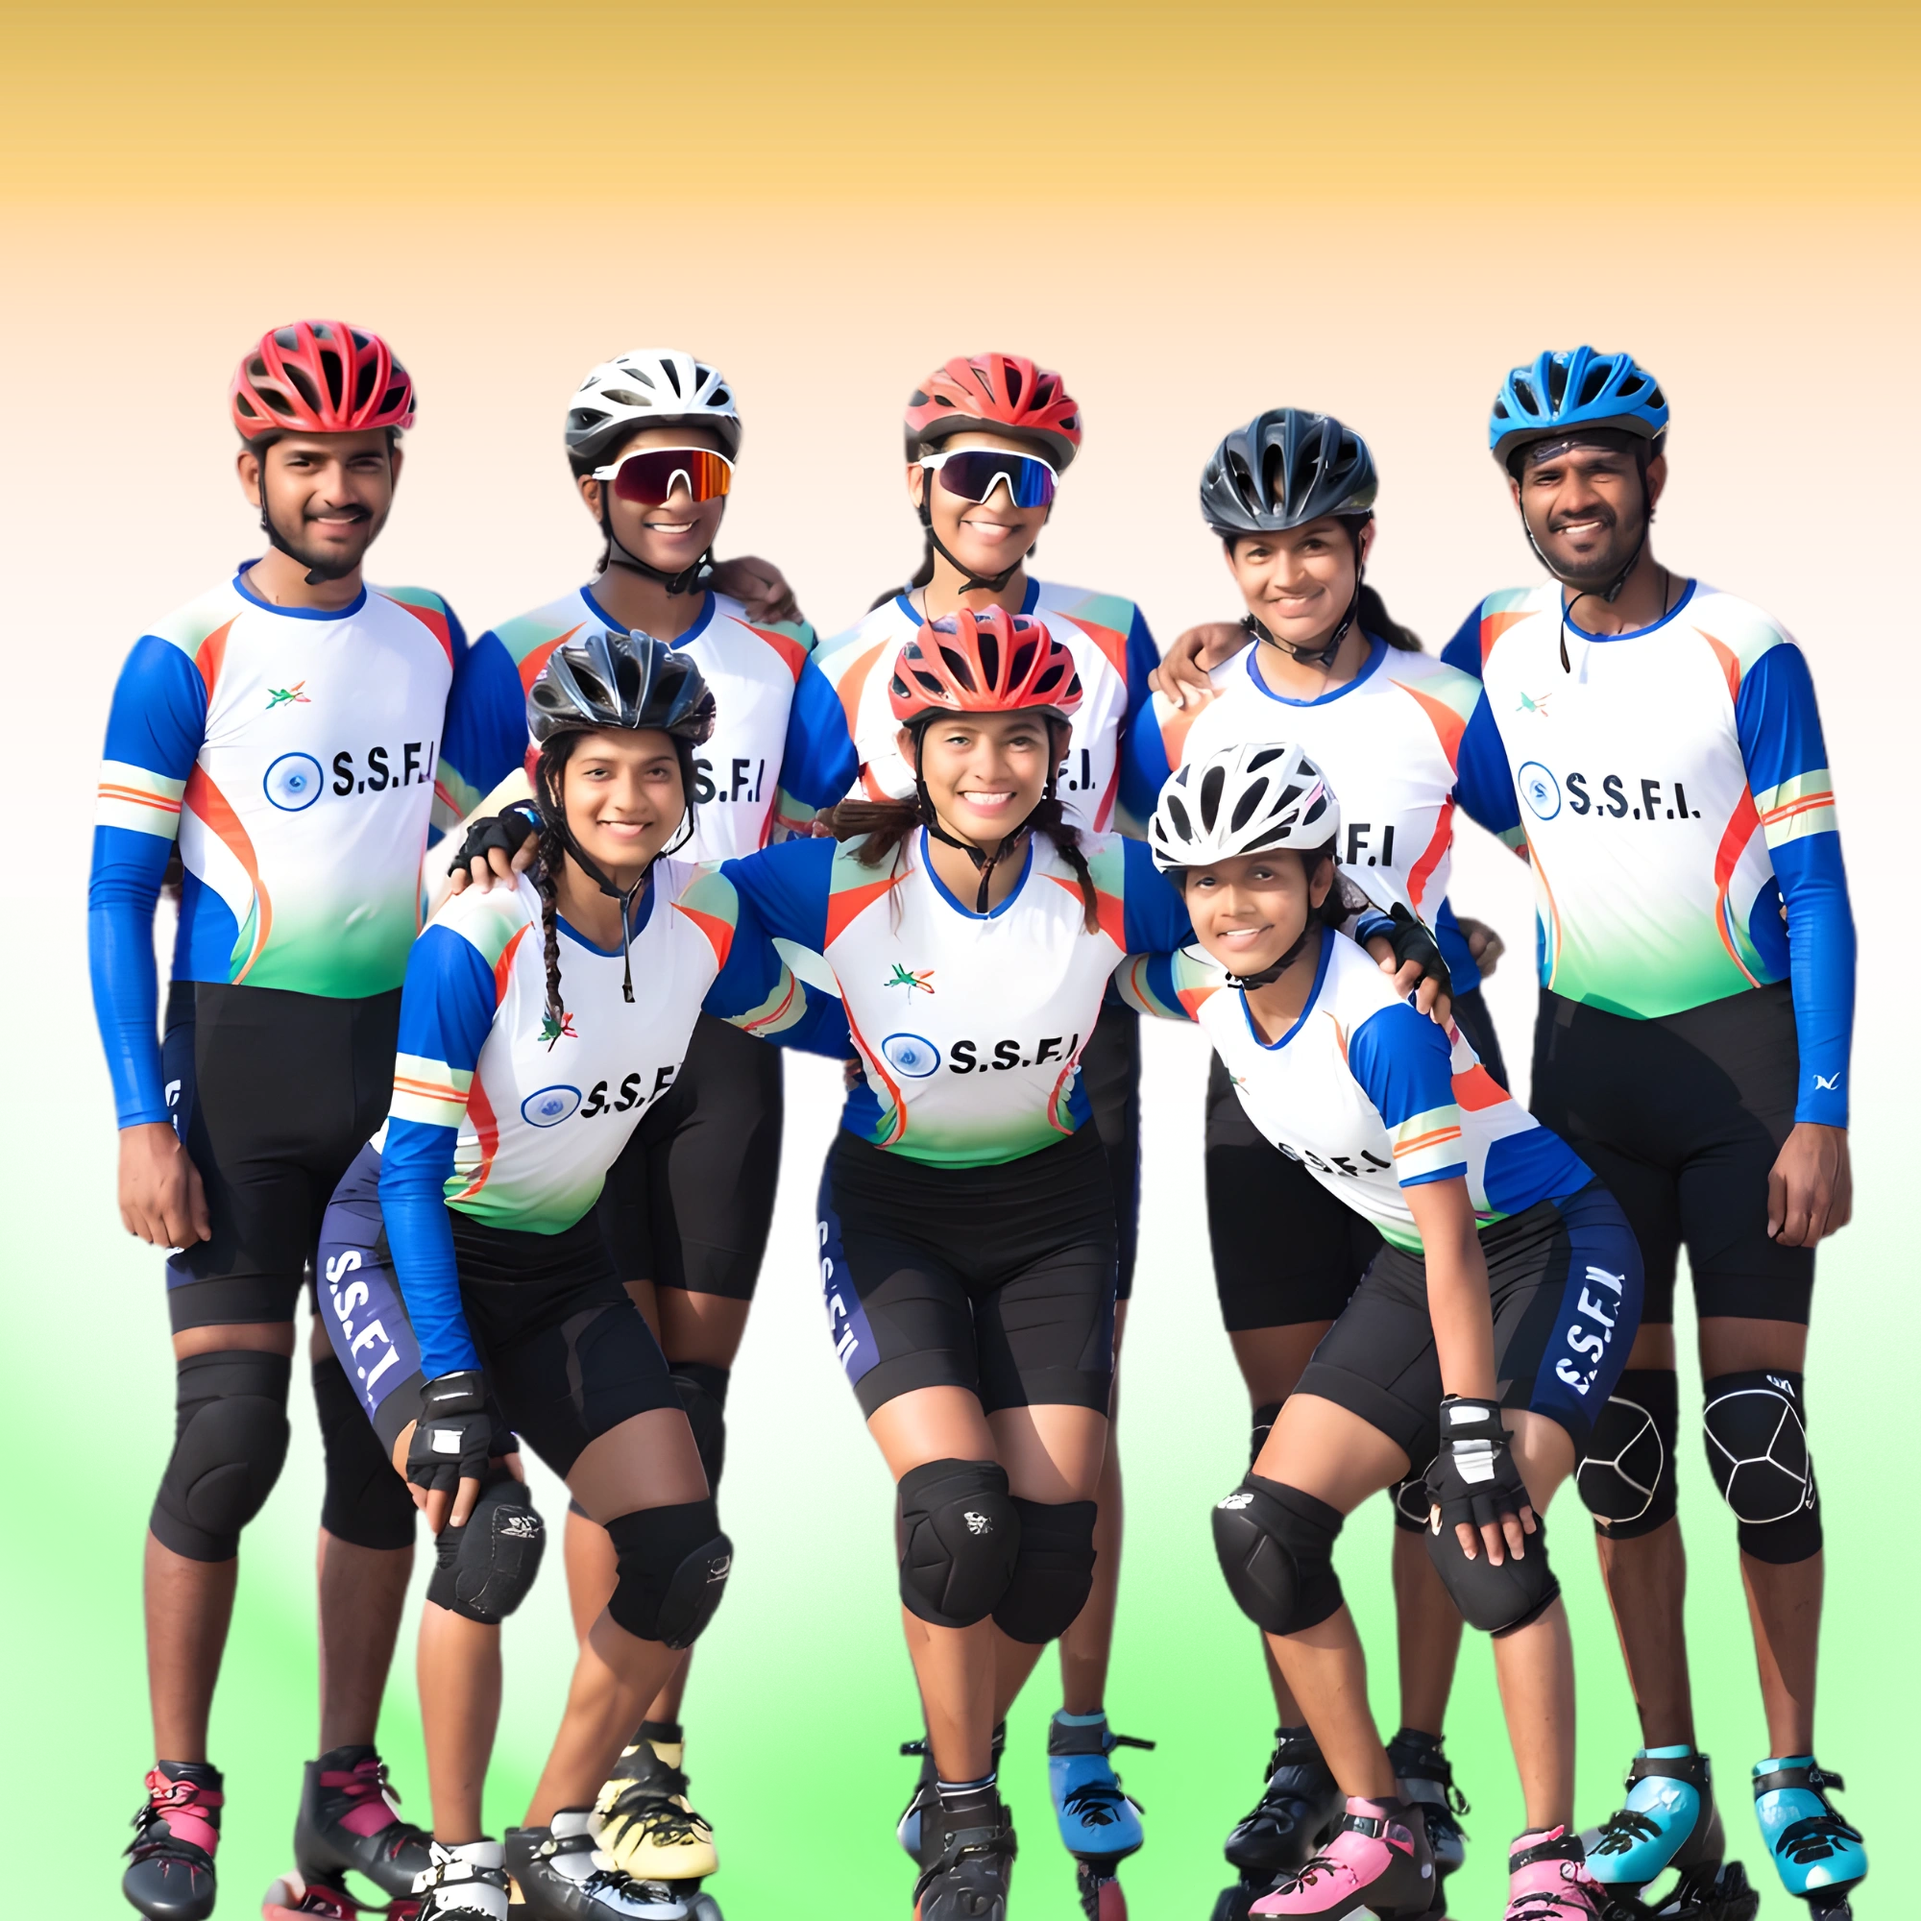
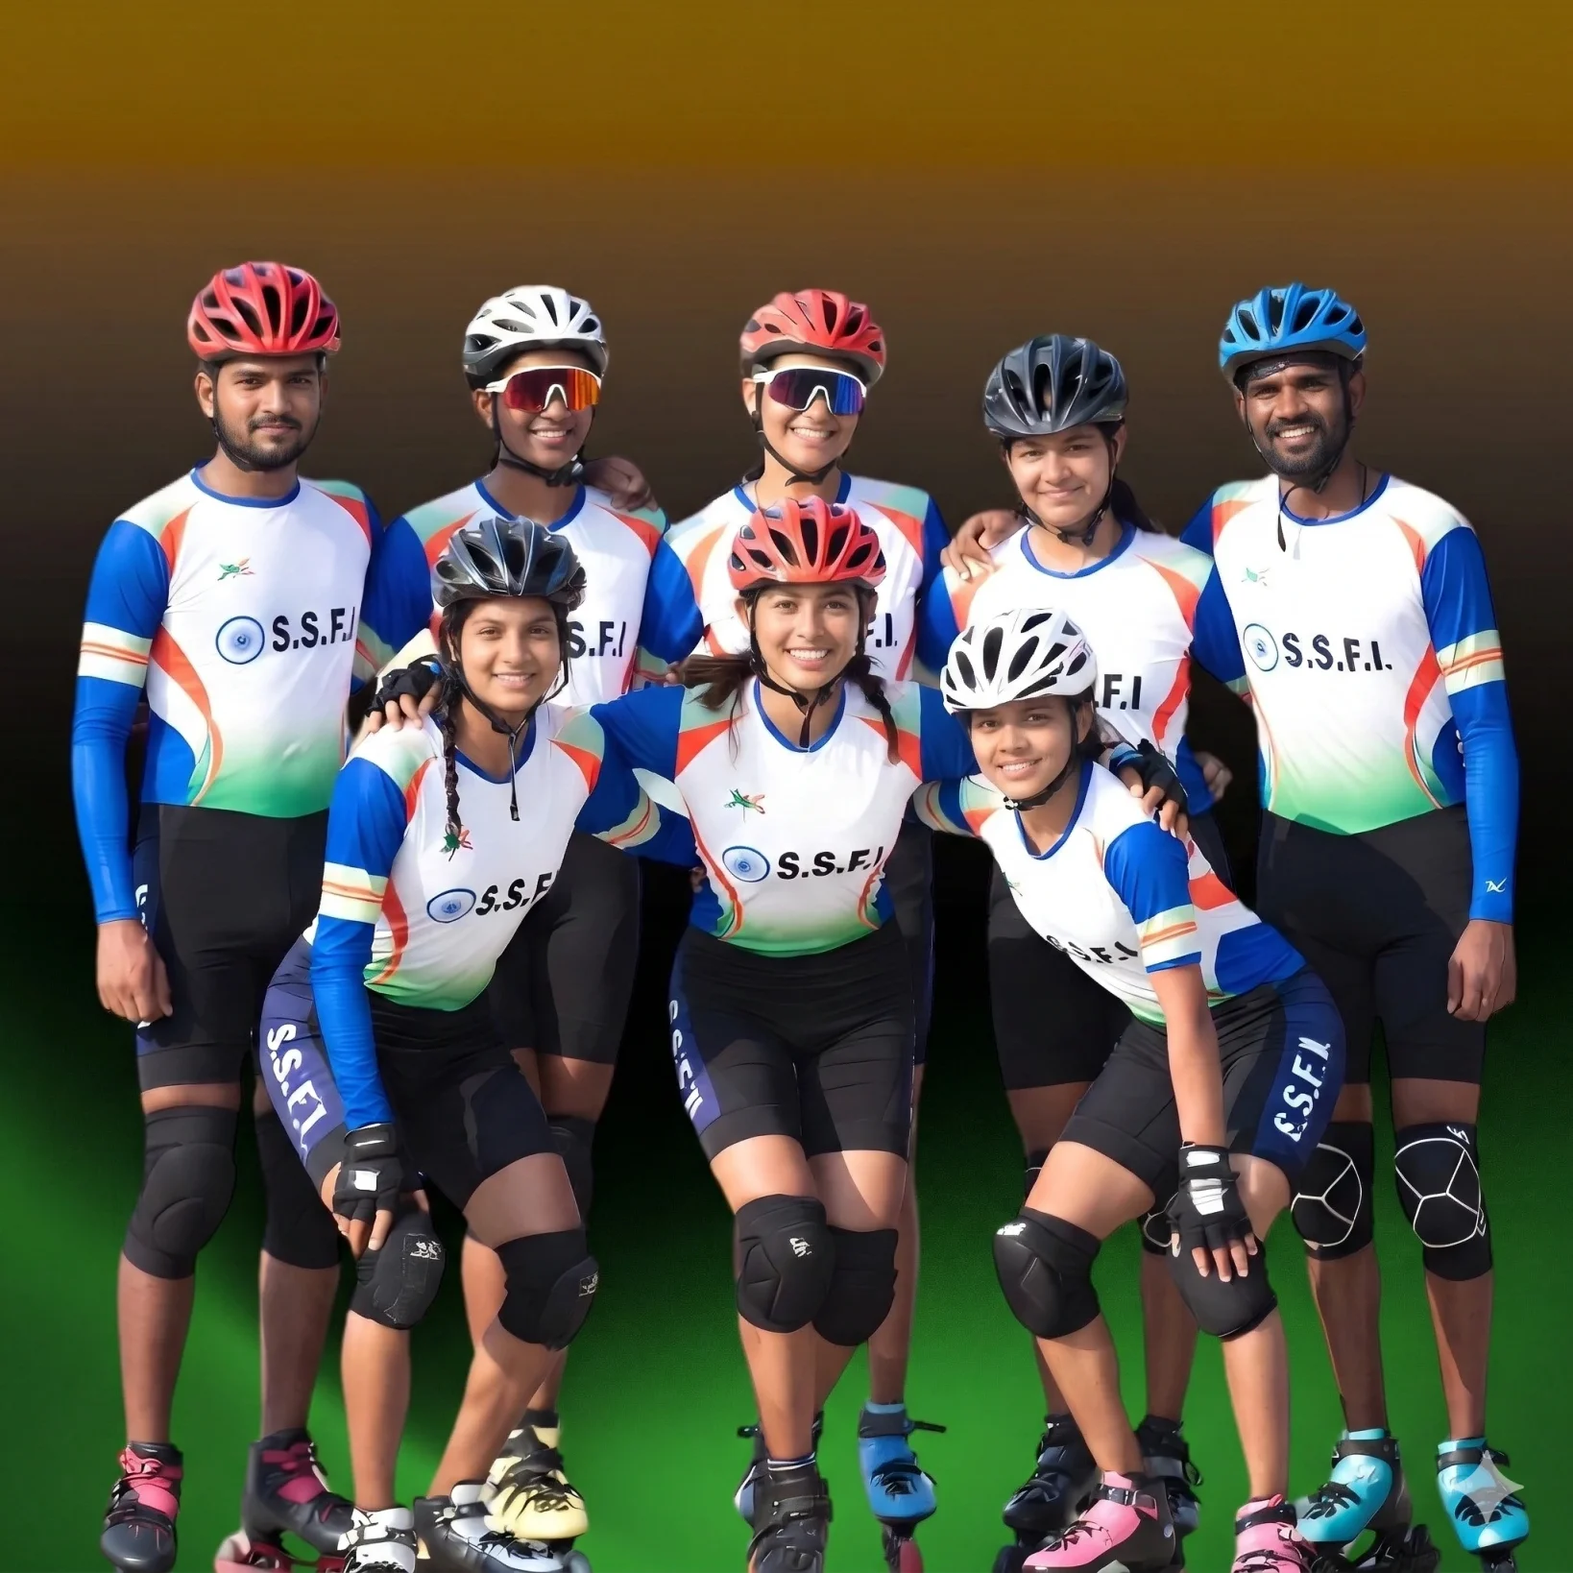
fix: add missing performance.middleware.ts for backend build
Creates requestTimer, requestTimeout, and httpCacheHeaders middleware
that app.ts imports but was missing from the repo.

diff --git a/src/lib/api/client.ts b/src/lib/api/client.ts
@@ -2,7 +2,7 @@ import axios, { AxiosInstance, AxiosRequestConfig, AxiosError } from 'axios';
 import { toast } from 'react-hot-toast';
 
 // API Client Configuration
-const API_BASE_URL = process.env.NEXT_PUBLIC_API_URL || '/api';
+const API_BASE_URL = process.env.NEXT_PUBLIC_API_URL || 'https://api.ssfiskate.com/api/v1';
 
 // Create axios instance
 const apiClient: AxiosInstance = axios.create({

diff --git a/src/app/(public)/about/page.tsx b/src/app/(public)/about/page.tsx
@@ -1,4 +1,5 @@
 import type { Metadata } from 'next';
+export const dynamic = 'force-dynamic';
 import AboutPageClient from './AboutPageClient';
 import { OrganizationSchema, BreadcrumbSchema } from '@/components/seo/StructuredData';
 

diff --git a/src/app/(public)/contact/page.tsx b/src/app/(public)/contact/page.tsx
@@ -1,4 +1,5 @@
 import type { Metadata } from 'next';
+export const dynamic = 'force-dynamic';
 import ContactPageClient from './ContactPageClient';
 import { BreadcrumbSchema } from '@/components/seo/StructuredData';
 
